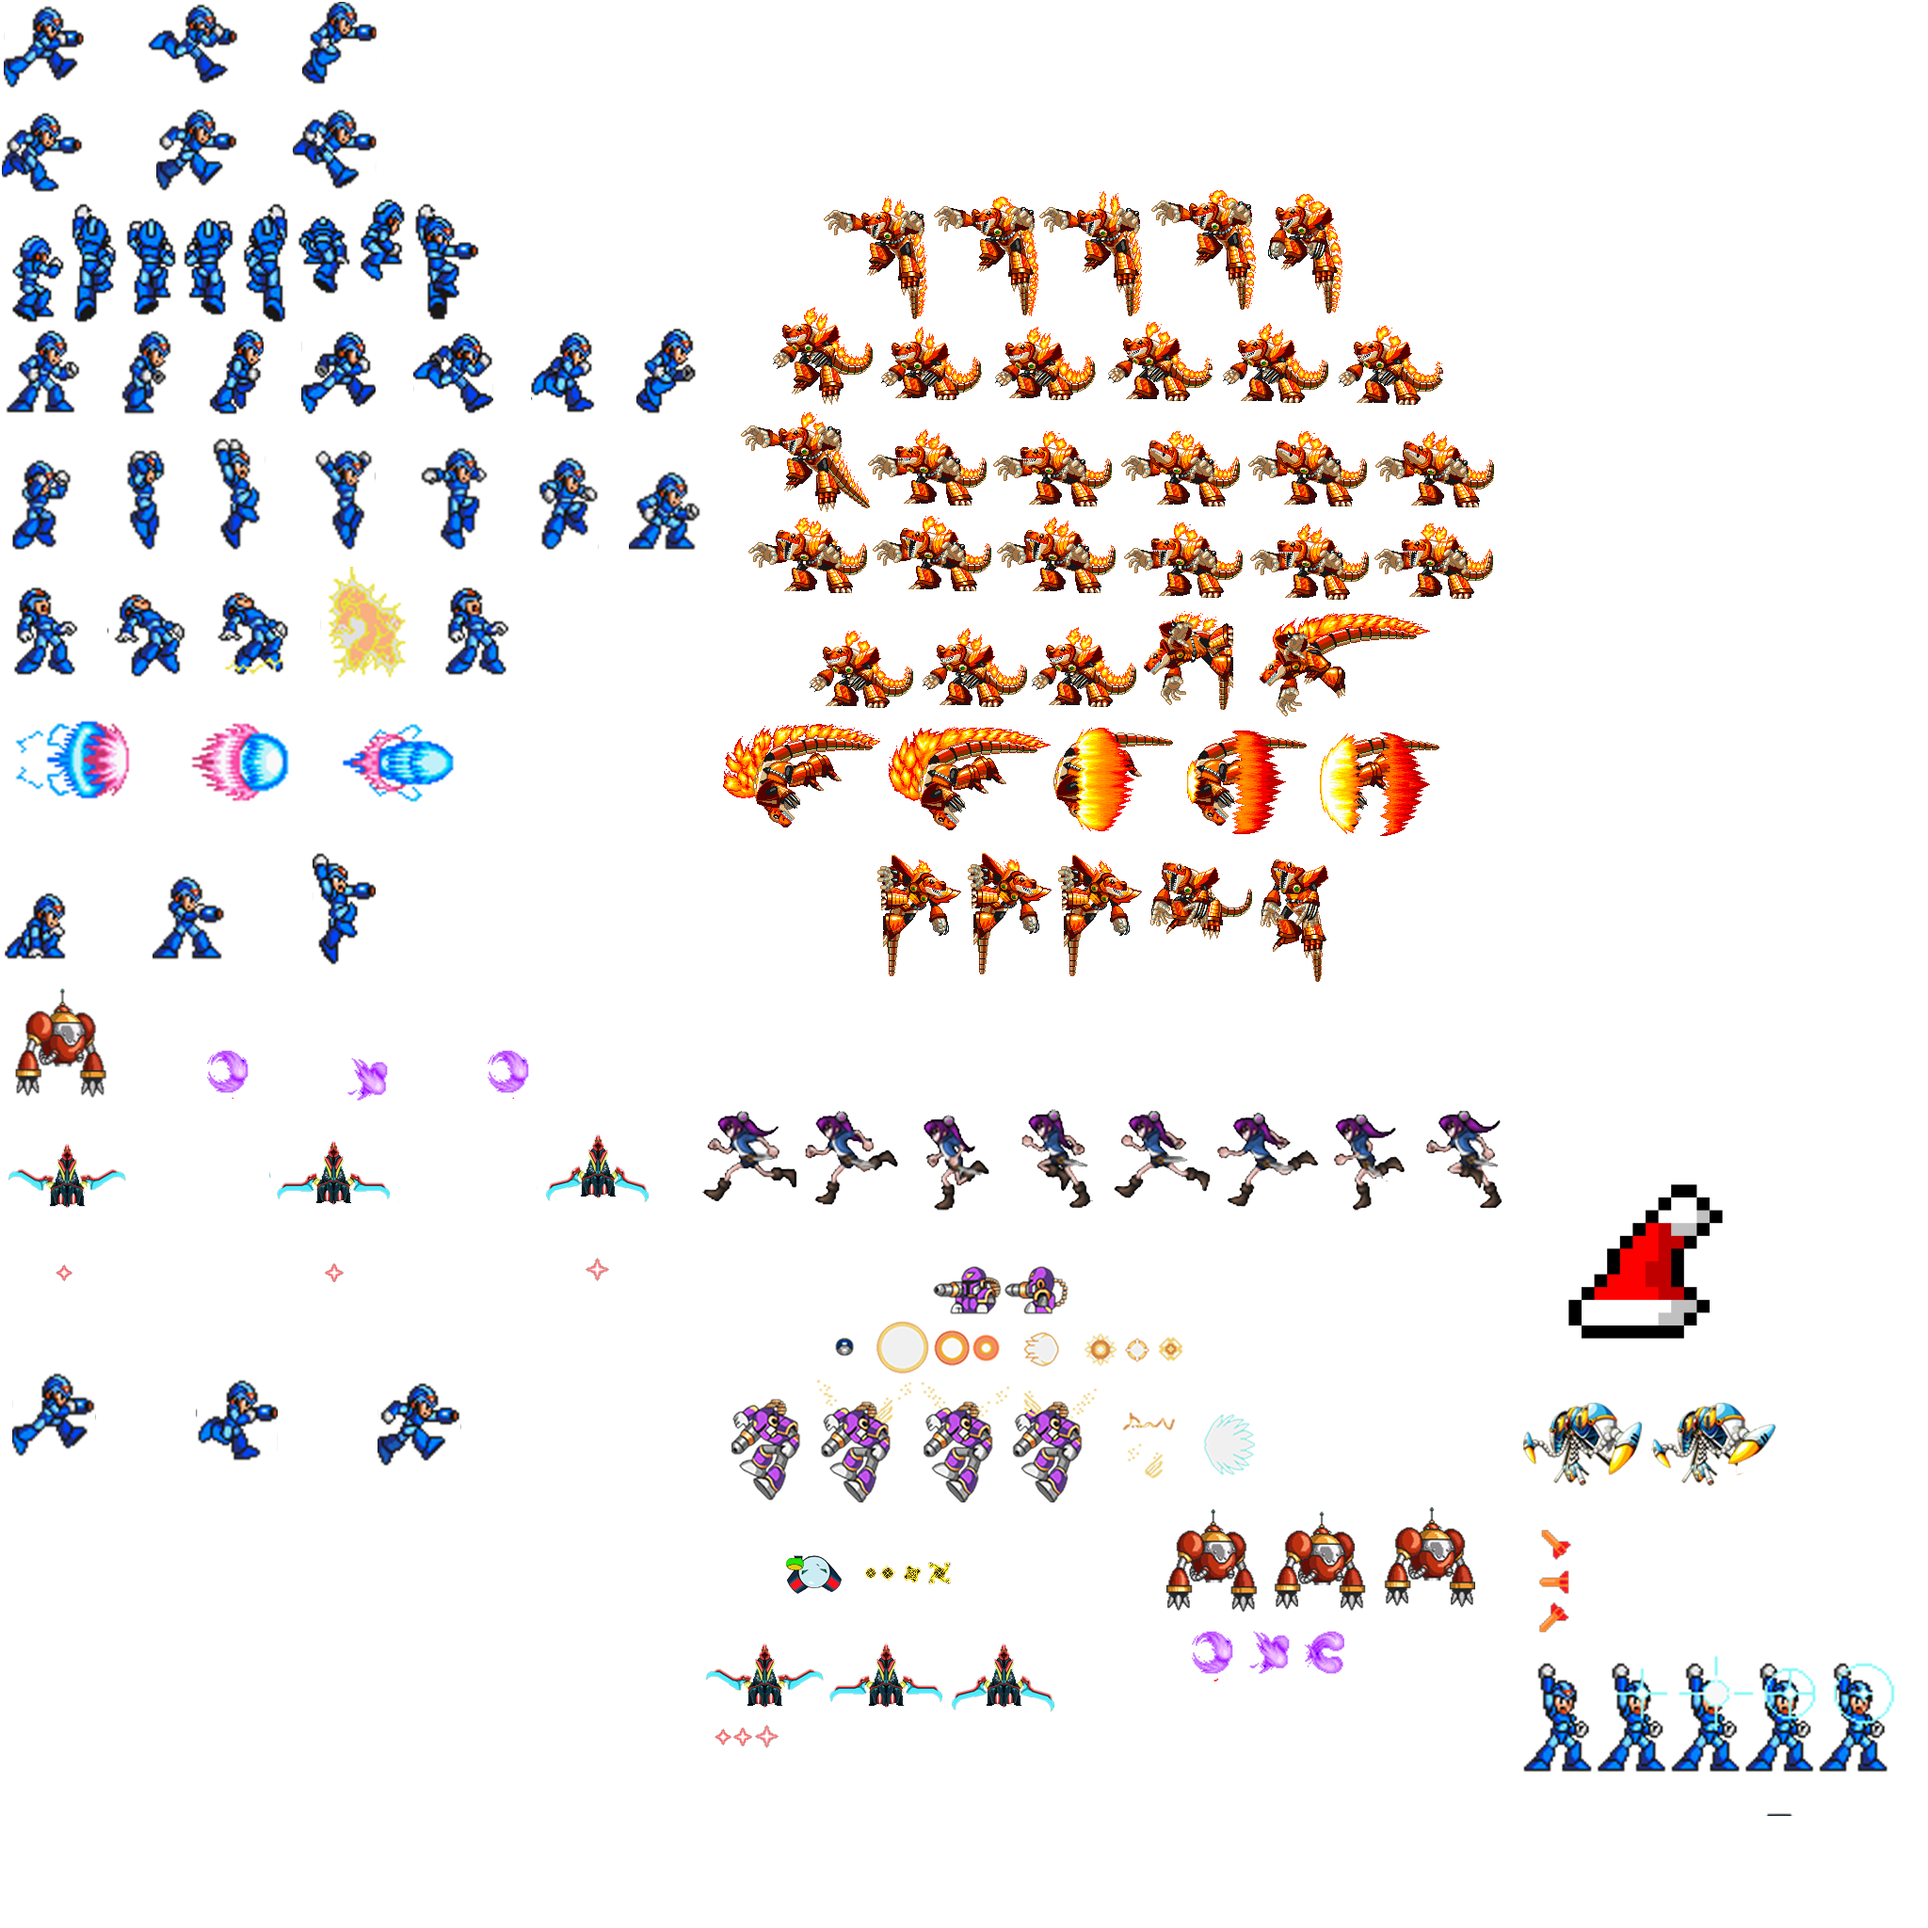
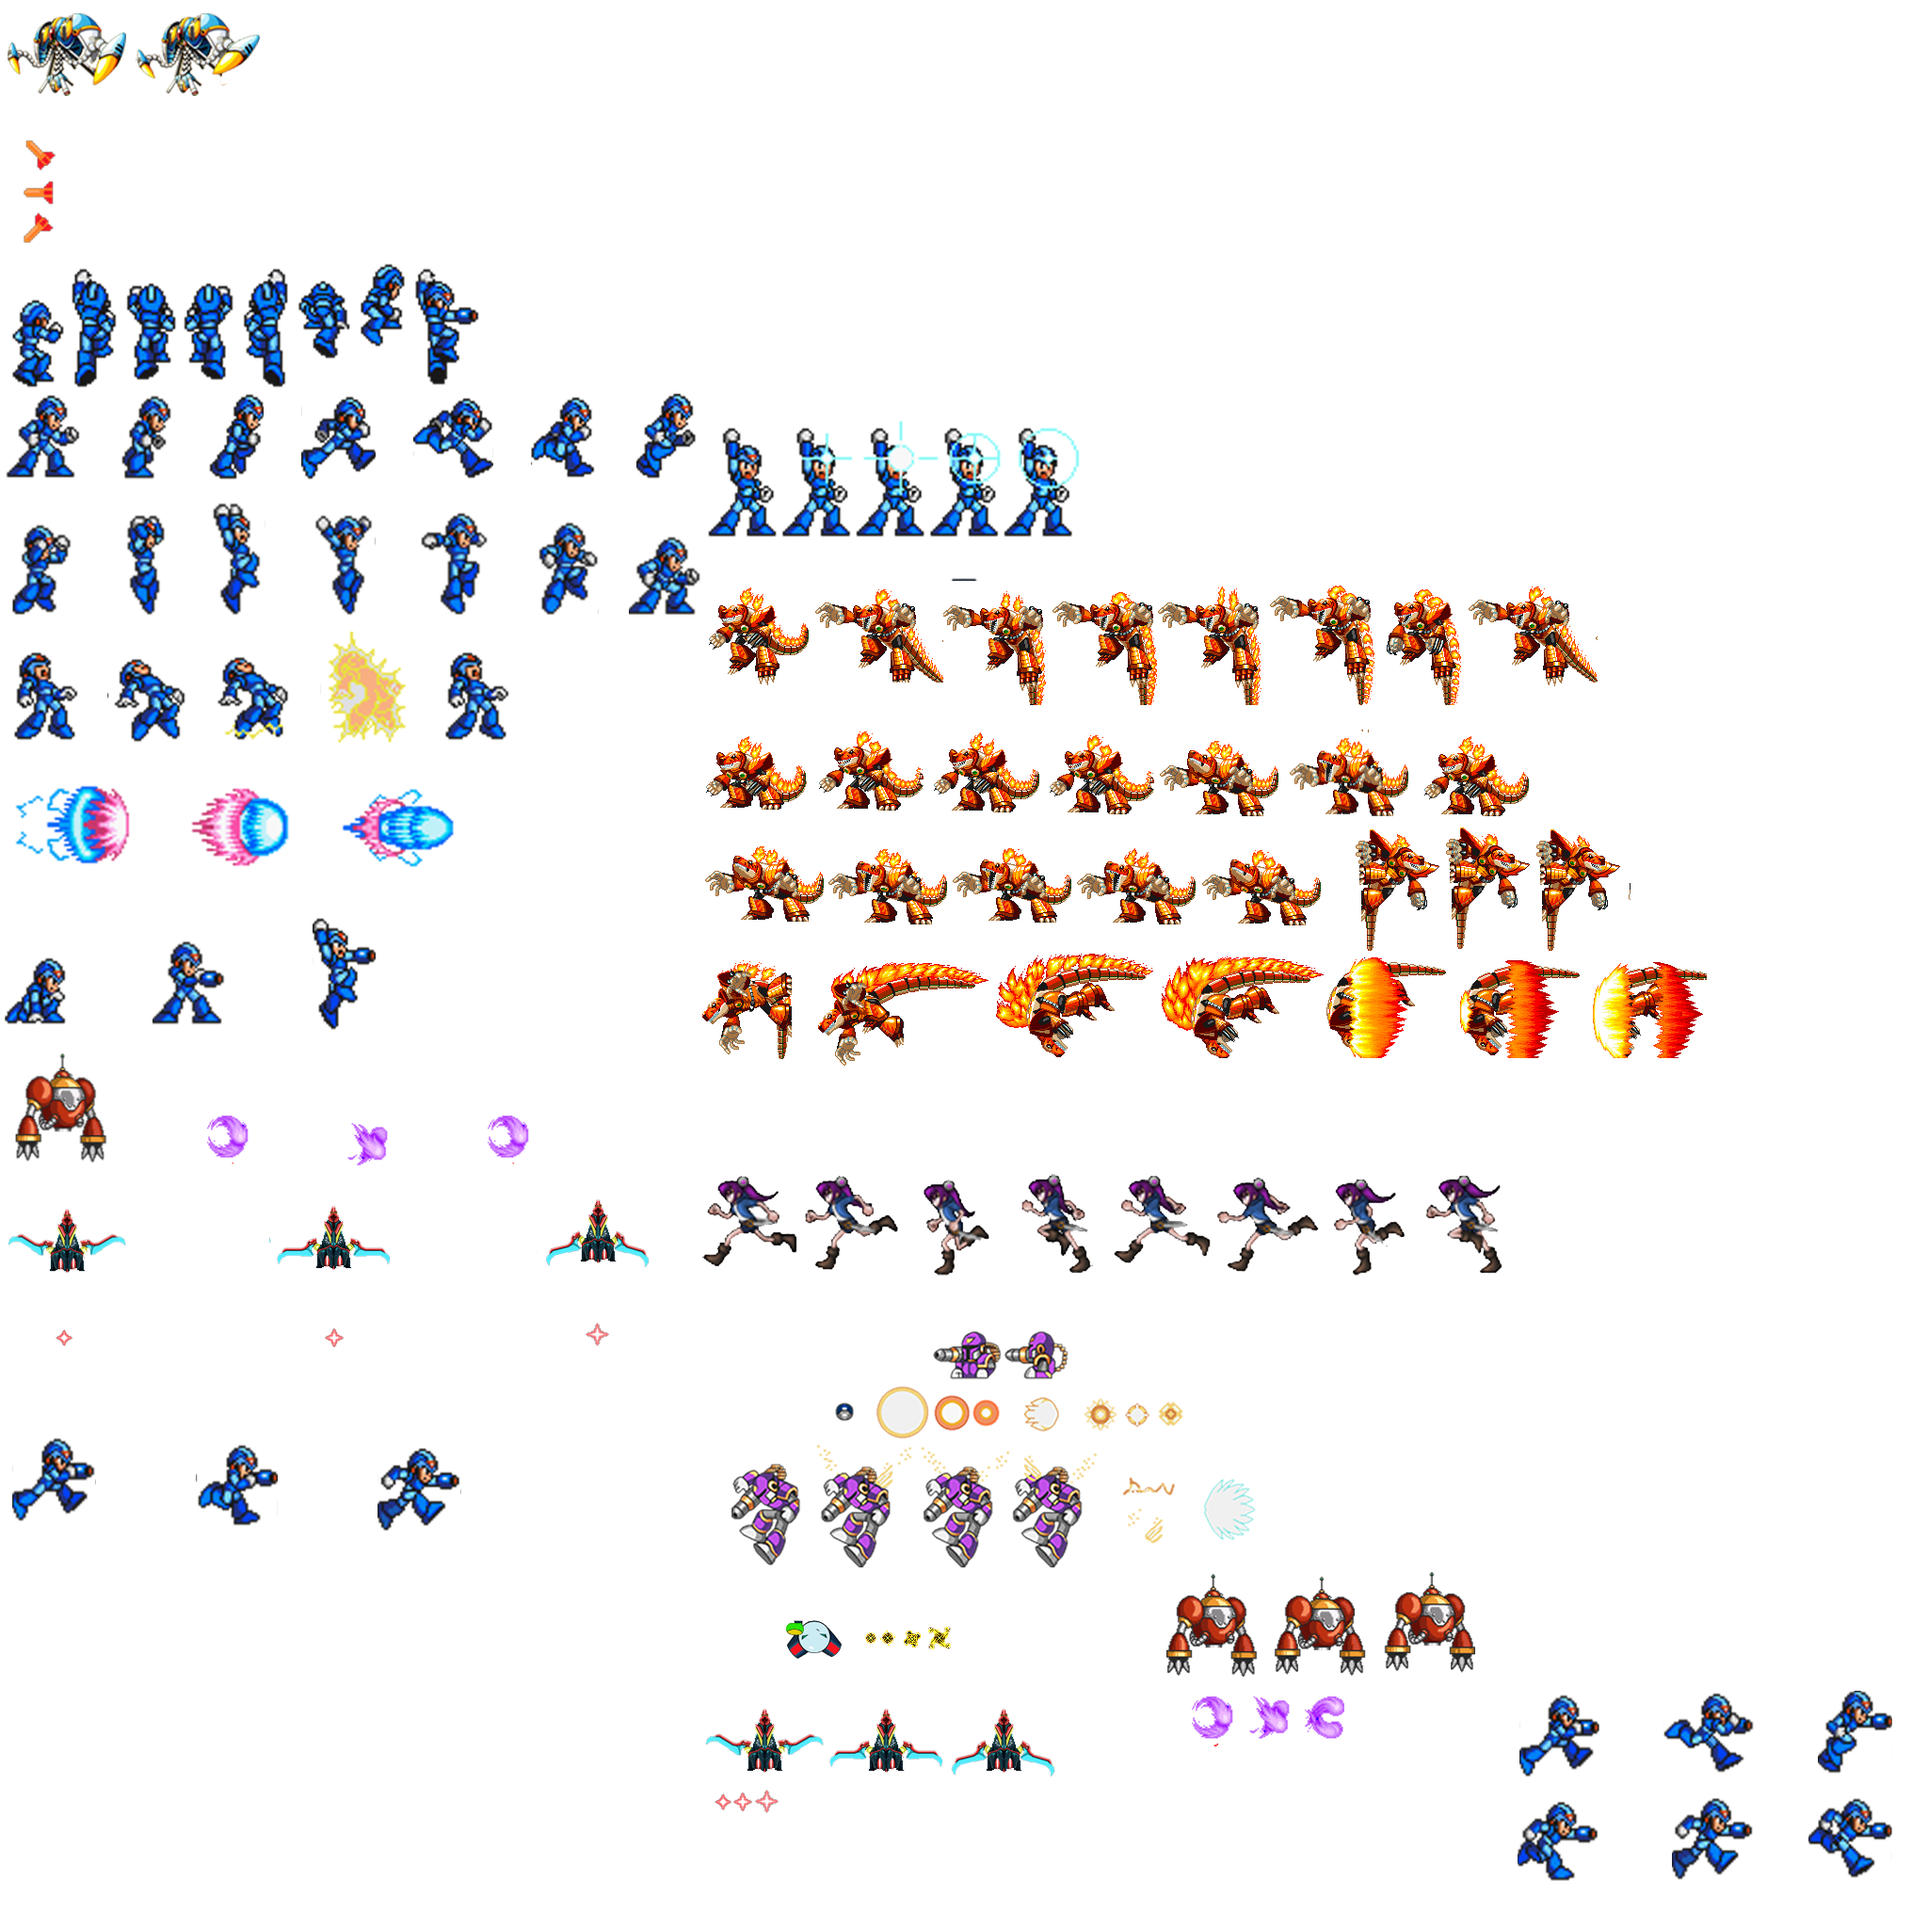
Fixing the shot method and Bullet class
Add collision bit for Bullet in MainCharacter
Add method to the WorldContactListener
Changing the spritesheet

diff --git a/core/src/com/megaman_oop/megaman/Sprites/Other/Bullet.java b/core/src/com/megaman_oop/megaman/Sprites/Other/Bullet.java
@@ -54,8 +54,14 @@ public class Bullet extends Sprite {
         if (!world.isLocked()) b2body = world.createBody(bodyDef);
 
         FixtureDef fdef = new FixtureDef();
-        CircleShape shape = new CircleShape();
-        shape.setRadius(3/MegaMan.PPM);
+        PolygonShape shape = new PolygonShape();
+        Vector2[] vertice = new Vector2[4];
+        vertice[0] = new Vector2(3, 3).scl(1 / MegaMan.PPM);
+        vertice[1] = new Vector2(3, -3).scl(1 / MegaMan.PPM);
+        vertice[2] = new Vector2(-3, -3).scl(1 / MegaMan.PPM);
+        vertice[3] = new Vector2(-3, 3).scl(1 / MegaMan.PPM);
+        shape.set(vertice);
+
         fdef.filter.categoryBits = MegaMan.BULLET_BIT;
         fdef.filter.maskBits =
                 MegaMan.GROUND_BIT

diff --git a/core/src/com/megaman_oop/megaman/Tools/WorldContactListener.java b/core/src/com/megaman_oop/megaman/Tools/WorldContactListener.java
@@ -43,6 +43,11 @@ public class WorldContactListener implements ContactListener {
           ((MainCharacter) fixA.getUserData()).hit((Enemy) fixB.getUserData());
         else ((MainCharacter) fixB.getUserData()).hit((Enemy) fixA.getUserData());
         break;
+      case MegaMan.MEGAMAN_BIT | MegaMan.BULLET_BIT:
+        if (fixA.getFilterData().categoryBits == MegaMan.MEGAMAN_BIT)
+          ((MainCharacter) fixA.getUserData()).shot((Bullet) fixB.getUserData());
+        else ((MainCharacter) fixB.getUserData()).shot((Bullet) fixA.getUserData());
+        break;
     }
   }
 

diff --git a/core/src/com/megaman_oop/megaman/Screens/PlayScreen.java b/core/src/com/megaman_oop/megaman/Screens/PlayScreen.java
@@ -65,7 +65,7 @@ public class PlayScreen implements Screen {
 
   public PlayScreen(MegaMan game) {
 //    atlas = new TextureAtlas("MegaMan_and_Enemies_Sprites.atlas");
-    atlas = new TextureAtlas("fuck_that_bitch.atlas");
+    atlas = new TextureAtlas("Megaman_and_Enemy.atlas");
     this.game = game;
     //atlas_Extra = new TextureAtlas("MegaMan_and_Enemies_Sprites1.atlas");
     // create cam used to follow MEGAMAN through cam world

diff --git a/core/src/com/megaman_oop/megaman/Sprites/Enemies/FlyBot.java b/core/src/com/megaman_oop/megaman/Sprites/Enemies/FlyBot.java
@@ -89,9 +89,9 @@ public class FlyBot extends Enemy {
       bullets.add(new Bullet(screen, b2body.getPosition().x , b2body.getPosition().y ));
   }
   public void draw(Batch batch) {
-    if (!destroyed || stateTime < 0.5) {
+    if (!destroyed) {
       super.draw(batch);
-      //for (Bullet bullet : bullets) bullet.draw(batch);
+      for (Bullet bullet : bullets) bullet.draw(batch);
     }
   }
 }

diff --git a/core/src/com/megaman_oop/megaman/Sprites/MainCharacter.java b/core/src/com/megaman_oop/megaman/Sprites/MainCharacter.java
@@ -283,6 +283,7 @@ public class MainCharacter extends Sprite {
             | MegaMan.ENEMY_BIT
             | MegaMan.OBJECT_BIT
             | MegaMan.ENEMY_HEAD_BIT
+            | MegaMan.BULLET_BIT
             | MegaMan.ITEM_BIT;
 
     fixtureDef.shape = shape;
